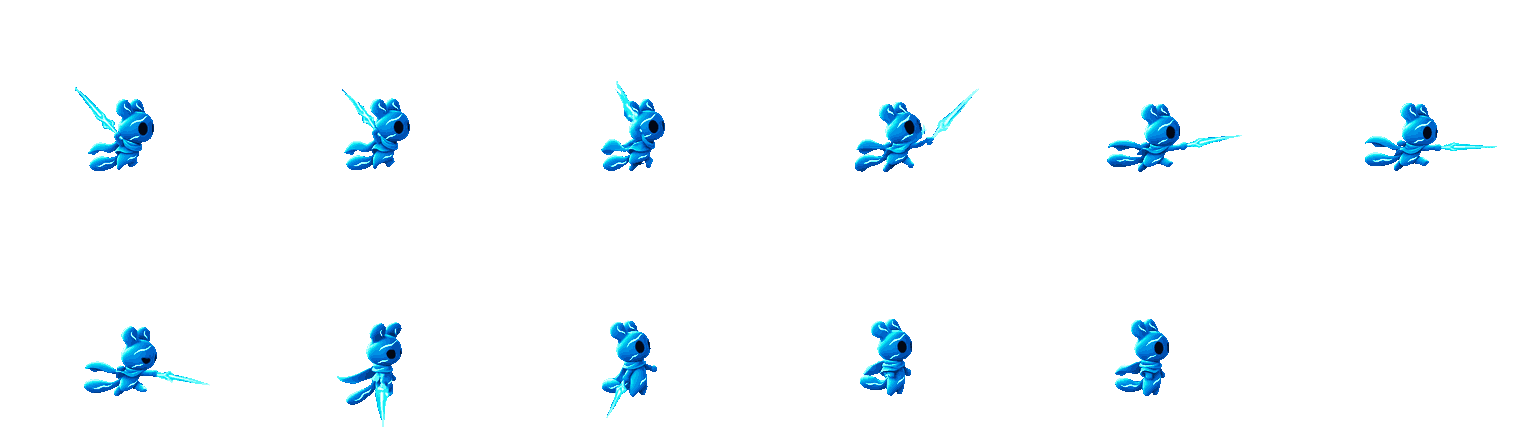
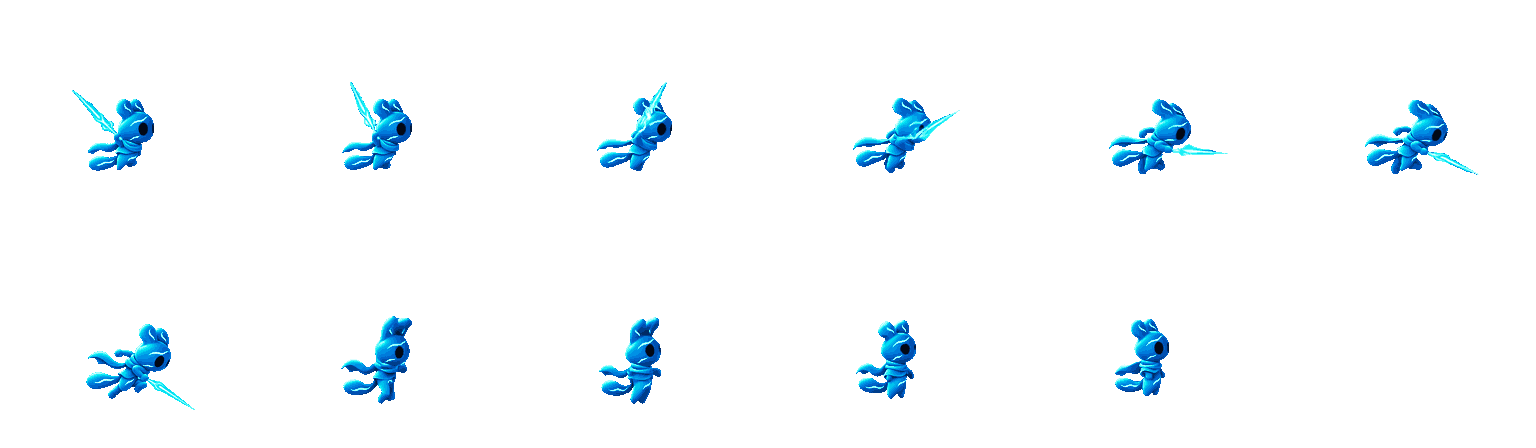
fix(art): 아래 베기와 공중 검격의 검끝 궤적 수정
아래 베기가 발밑을 가로질러 반대쪽까지 진행하도록 자세를 새로 만들고 마지막 베기 자세를 적중 정지에 사용했다. 공중 일반은 수평 자세를 짧게 지나 아래로 빠지는 연속 자세로 바꿨다.

효과 없는 자세 시트와 전원 구역 SDL 장면에서 검끝 전개, 두 공격의 헛치기와 적중, 아래 베기의 반동을 확인했다.

diff --git a/assets/warden/attack-source/build.py b/assets/warden/attack-source/build.py
@@ -8,7 +8,7 @@ from PIL import Image
 ROOT = Path(__file__).resolve().parents[3]
 WARDEN = ROOT / 'assets/warden'
 ART = ROOT / 'art/warden'
-AIR_TIMES = [0, 33, 59, 85, 100, 126, 160, 180, 205, 235, 263, 300]
+AIR_TIMES = [0, 28, 50, 78, 100, 120, 140, 160, 180, 220, 256, 300]
 SIZE = (256, 224)
 PIVOT = (128, 136)
 COLUMNS = 6
@@ -92,7 +92,7 @@ def main():
     down_size = (208, 208)
     down_art = Image.open(WARDEN / 'downstrike-source/poses.png').convert('RGBA')
     down = [tile(down_art, i, down_size, 5) for i in range(10)]
-    for frame_index, fx_index in enumerate((0, 2, 3, 4, 5), start=3):
+    for frame_index, fx_index in enumerate((1, 2, 3, 4, 5), start=3):
         down[frame_index].alpha_composite(*down_layer(effects[fx_index]))
     sheet(down, down_size, 5).save(out / 'downstrike.png')
     print(json.dumps({'count': len(frames), 'durationsMs': [b - a for a, b in zip(edges, edges[1:])]}))

diff --git a/assets/warden/README.md b/assets/warden/README.md
@@ -8,7 +8,7 @@
 | run_left.png | art/warden/provisional-approved/run-v4/run_left/sheet.png | 618ef3377b2682ee6d15ab4052a208f041562adcaed406a0361977ca7460940e |
 | run_right.png | art/warden/provisional-approved/run-v4/run_right/sheet.png | c29d16562b7df8a8ec927b031ef1589bdf6252467afb648f1537af60977fc3aa |
 | attack.png | `art/warden/ground-step-slash-v1` 몸체 위에 `art/warden/ground-crescent-discharge-refined/slash.png`의 Pixelfx 분기 방전 초승달을 합성 | 0fc07afb21d30d24d5b37127a44baa3bc838225107085329f30bf53f2f110073 |
-| air_attack.png | `attack-source/air-poses.png`의 로컬 ComfyUI LTX-2.5 전신 자세에 지상 검격의 pixelfx 6프레임을 합성. [영상·타격 원화](../../art/warden/full-body-air-attacks/) | 7933a97b28c43412fe93278466f413a4d742464cf14b4f5d53d84dba558e2469 |
+| air_attack.png | `attack-source/air-poses.png`의 위→앞→아래 베기 자세에 지상 검격의 pixelfx 6프레임을 같은 크기로 합성. [로컬 ComfyUI 영상과 후속 자세 원화](../../art/warden/air-slash-arcs/) | 036718d608a2b22be89b212e03403d164dc95982239900b05cb37449a848c5fc |
 | prepare_idle_left.png | art/warden/provisional-approved/dash-eye-cape-v1/prepare_idle_left/sheet.png | efb9df7c2c976ace57b8a0d2448dac120bf4616e414edaa58bac91e12ae1ce1e |
 | prepare_idle_right.png | art/warden/provisional-approved/dash-eye-cape-v1/prepare_idle_right/sheet.png | 3ba433a4573f4cf45a085579ab10bf5a355c72e528446974023bc0fff342c3d0 |
 | prepare_run_left.png | art/warden/provisional-approved/dash-eye-cape-v1/prepare_run_left/sheet.png | f4db13401e9771a363a726689ad5ab573b1e519955e07a8eba3e757c5023f4f5 |
